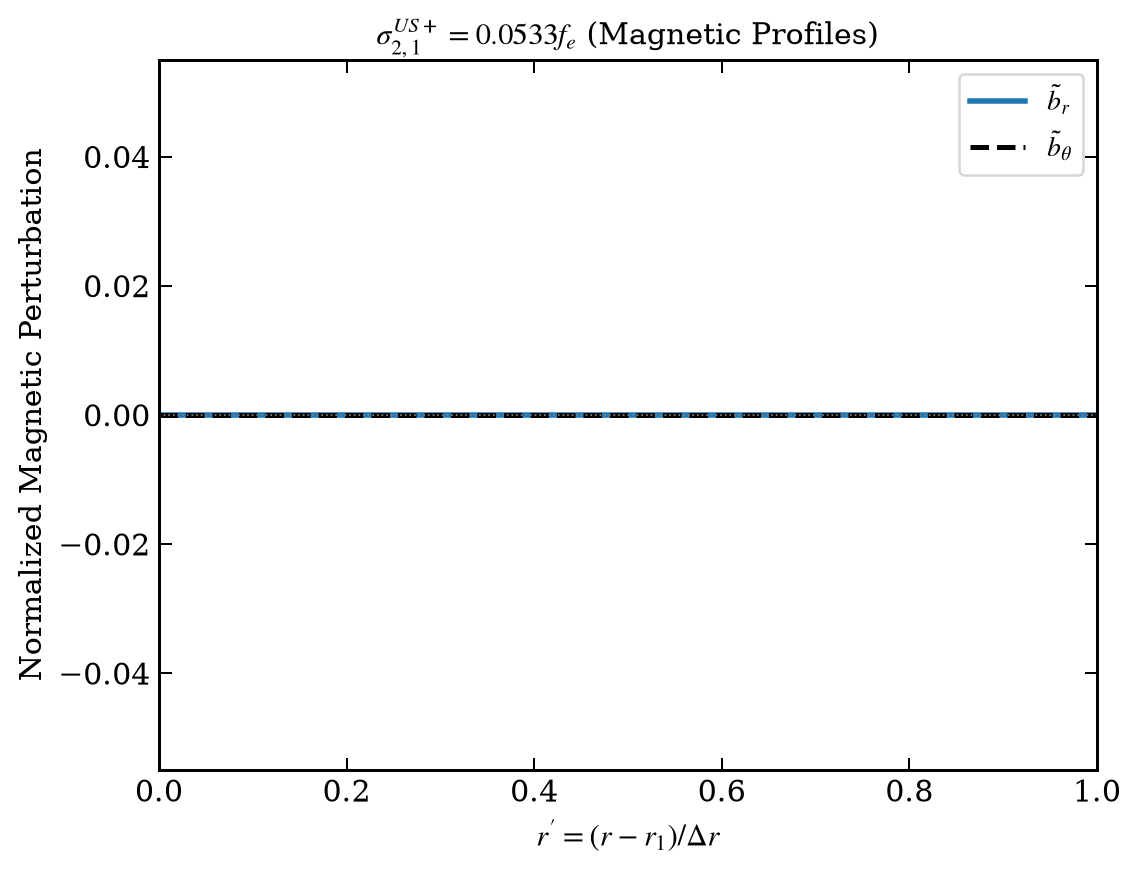
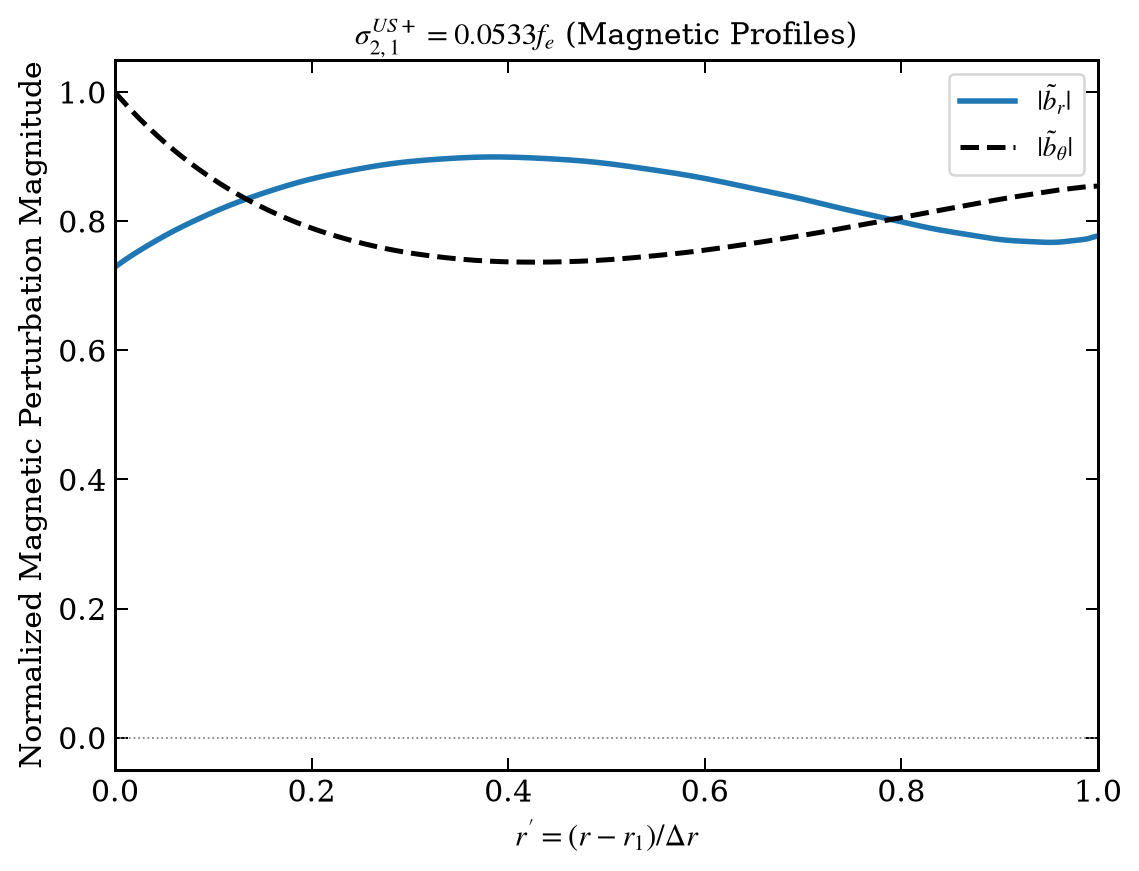
Implement exact physical SI unit magnetic field reconstruction and magnitude plotting

diff --git a/plot_eigenfunctions.py b/plot_eigenfunctions.py
@@ -587,15 +587,17 @@ for eig in all_eigs:
     # Target max u0 is 1.0 for the raw numerical values
     v_r, v_th, u0 = reconstruct_velocity(eig, m, eta, 1.0)
 
+    # Scale to physical velocity perturbations (m/s) using r0 * Omega
+    v_r_phys = v_r * (r0 * Omega)
+    v_th_phys = v_th * (r0 * Omega)
+
     # Rigorous reconstruction of magnetic fields from the derived SWMHD induction relations
-    # b_r = -i * (r0 / (2 * Oh * H0)) * v_r
-    # b_theta = -i * (r0 / (2 * Oh * H0)) * v_theta
-    # To handle potential division by zero if Oh is extremely close to 0:
+    # b_r = i * B0 / (omega * H0) * v_r_phys = i * B0 / (2 * Omega * eig * H0) * v_r_phys
     if abs(eig) > 1e-5:
-        # Note: we use complex type to store the exact fields before taking real/magnitude
-        factor = -1j * (r0 / (2.0 * eig * H0))
-        b_r_complex = factor * v_r
-        b_th_complex = factor * v_th
+        # factor is 1j * B0 / (2.0 * Omega * eig * H0) in SI units (Tesla)
+        factor = 1j * B0 / (2.0 * Omega * eig * H0)
+        b_r_complex = factor * v_r_phys
+        b_th_complex = factor * v_th_phys
     else:
         b_r_complex = np.zeros_like(v_r, dtype=complex)
         b_th_complex = np.zeros_like(v_th, dtype=complex)
@@ -750,22 +752,30 @@ if len(slow_modes_for_plotting) > 0:
         r_prime_fine = np.linspace(0, 1, 200)
         r_fine_hat = r_prime_fine * (hat_r2 - hat_r1) + hat_r1
 
-        # Interpolate reconstructed magnetic fields to fine grid
-        br_fine = bary_interp(r_fine_hat, xg, r_br.real)
-        bth_fine = bary_interp(r_fine_hat, xg, r_bth.real)
+        # Compute absolute magnitudes of reconstructed complex magnetic fields
+        br_mag = np.abs(r_br)
+        bth_mag = np.abs(r_bth)
 
-        # Normalize for plotting so peak magnitude is clear
-        peak_b = max(np.max(np.abs(br_fine)), np.max(np.abs(bth_fine))) or 1.0
-        br_fine /= peak_b
-        bth_fine /= peak_b
+        # Interpolate magnetic perturbation magnitudes to fine grid
+        br_fine = bary_interp(r_fine_hat, xg, br_mag)
+        bth_fine = bary_interp(r_fine_hat, xg, bth_mag)
 
-        ax.plot(r_prime_fine, br_fine, color='#1f77b4', lw=2.2, label=r'$\tilde{b}_r$')
-        ax.plot(r_prime_fine, bth_fine, color='black', lw=2.0, ls='--', label=r'$\tilde{b}_\theta$')
+        # Normalize only for plotting so peak magnitude is clear
+        peak_b = max(np.max(br_fine), np.max(bth_fine))
+        if peak_b > 0.0:
+            br_plot = br_fine / peak_b
+            bth_plot = bth_fine / peak_b
+        else:
+            br_plot = br_fine
+            bth_plot = bth_fine
+
+        ax.plot(r_prime_fine, br_plot, color='#1f77b4', lw=2.2, label=r'$|\tilde{b}_r|$')
+        ax.plot(r_prime_fine, bth_plot, color='black', lw=2.0, ls='--', label=r'$|\tilde{b}_\theta|$')
         ax.axhline(0, color='grey', lw=0.7, ls=':')
 
         ax.set_xlim(0, 1)
         ax.set_xlabel(r"$r'=(r-r_1)/\Delta r$", fontsize=12)
-        ax.set_ylabel("Normalized Magnetic Perturbation", fontsize=12)
+        ax.set_ylabel("Normalized Magnetic Perturbation Magnitude", fontsize=12)
         ax.set_title(rf"$\sigma_{{{m},1}}^{{US+}} = {r_eig:.4f}f_e$ (Magnetic Profiles)", fontsize=12)
         ax.legend(loc="upper right", frameon=True, fontsize=11)
 
